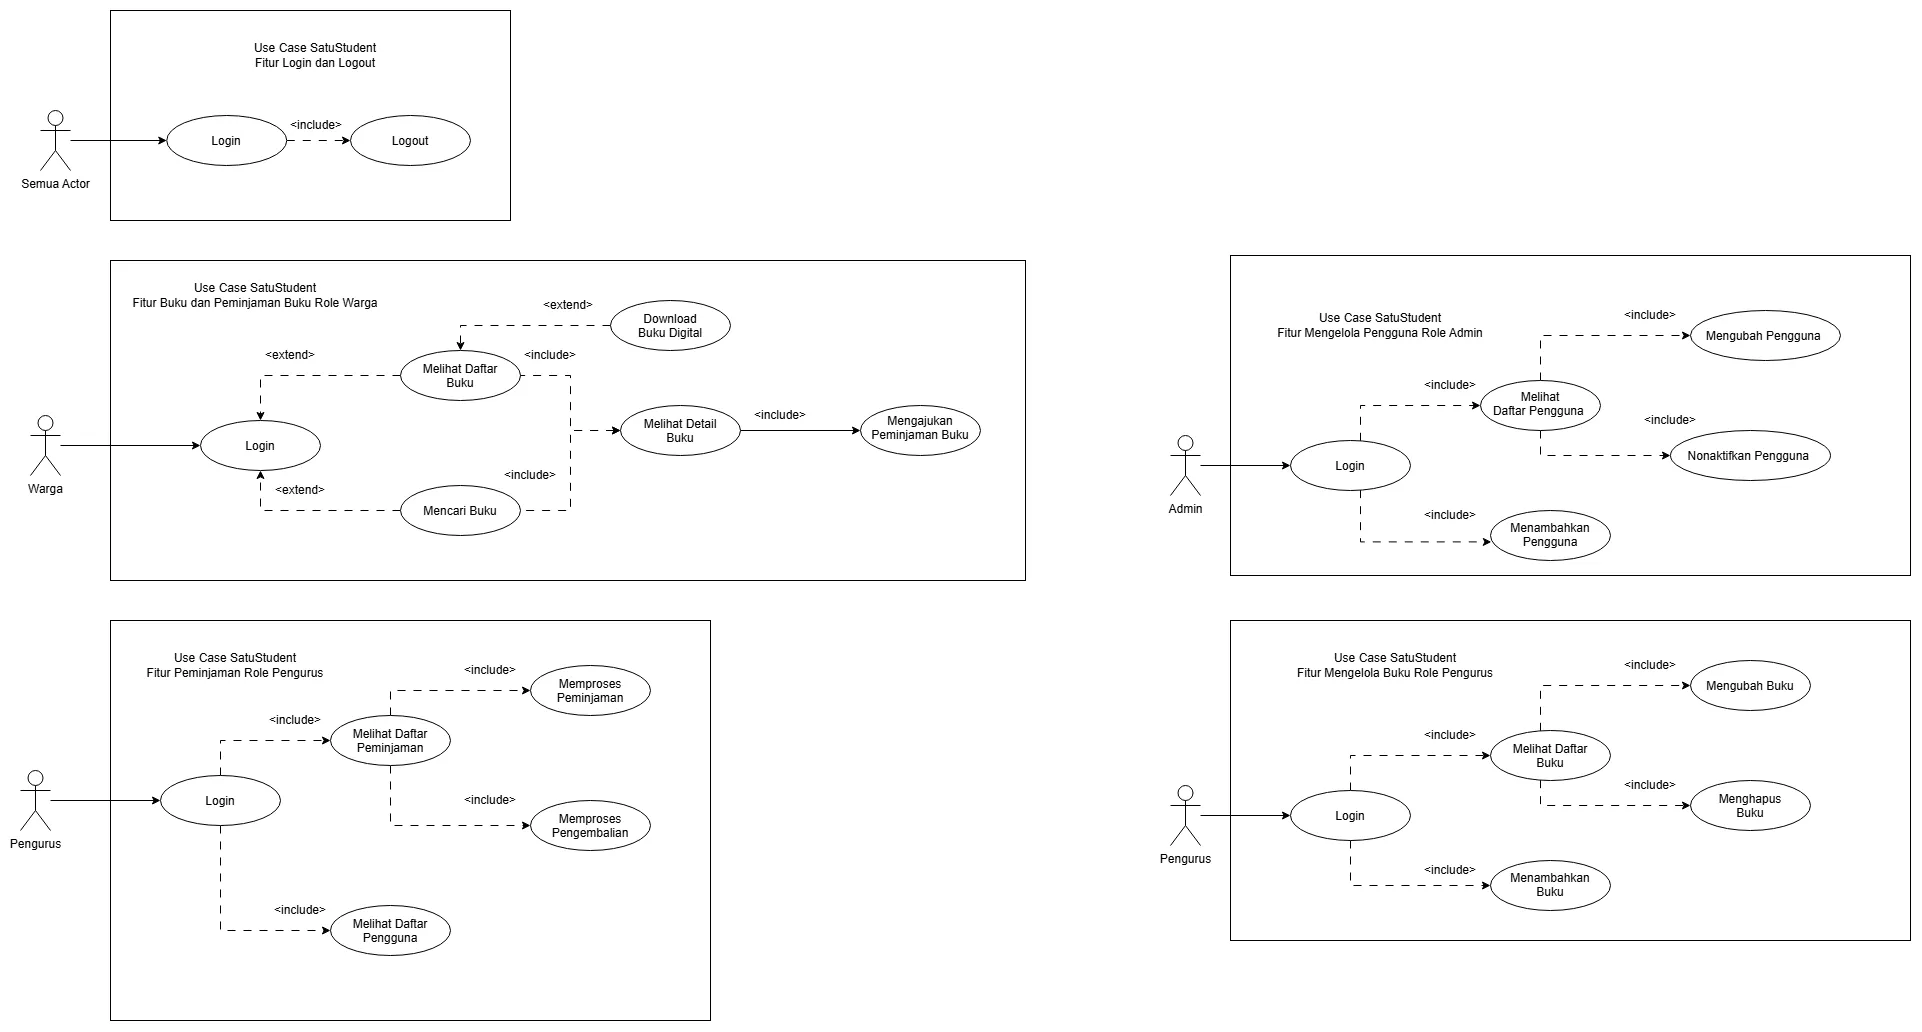
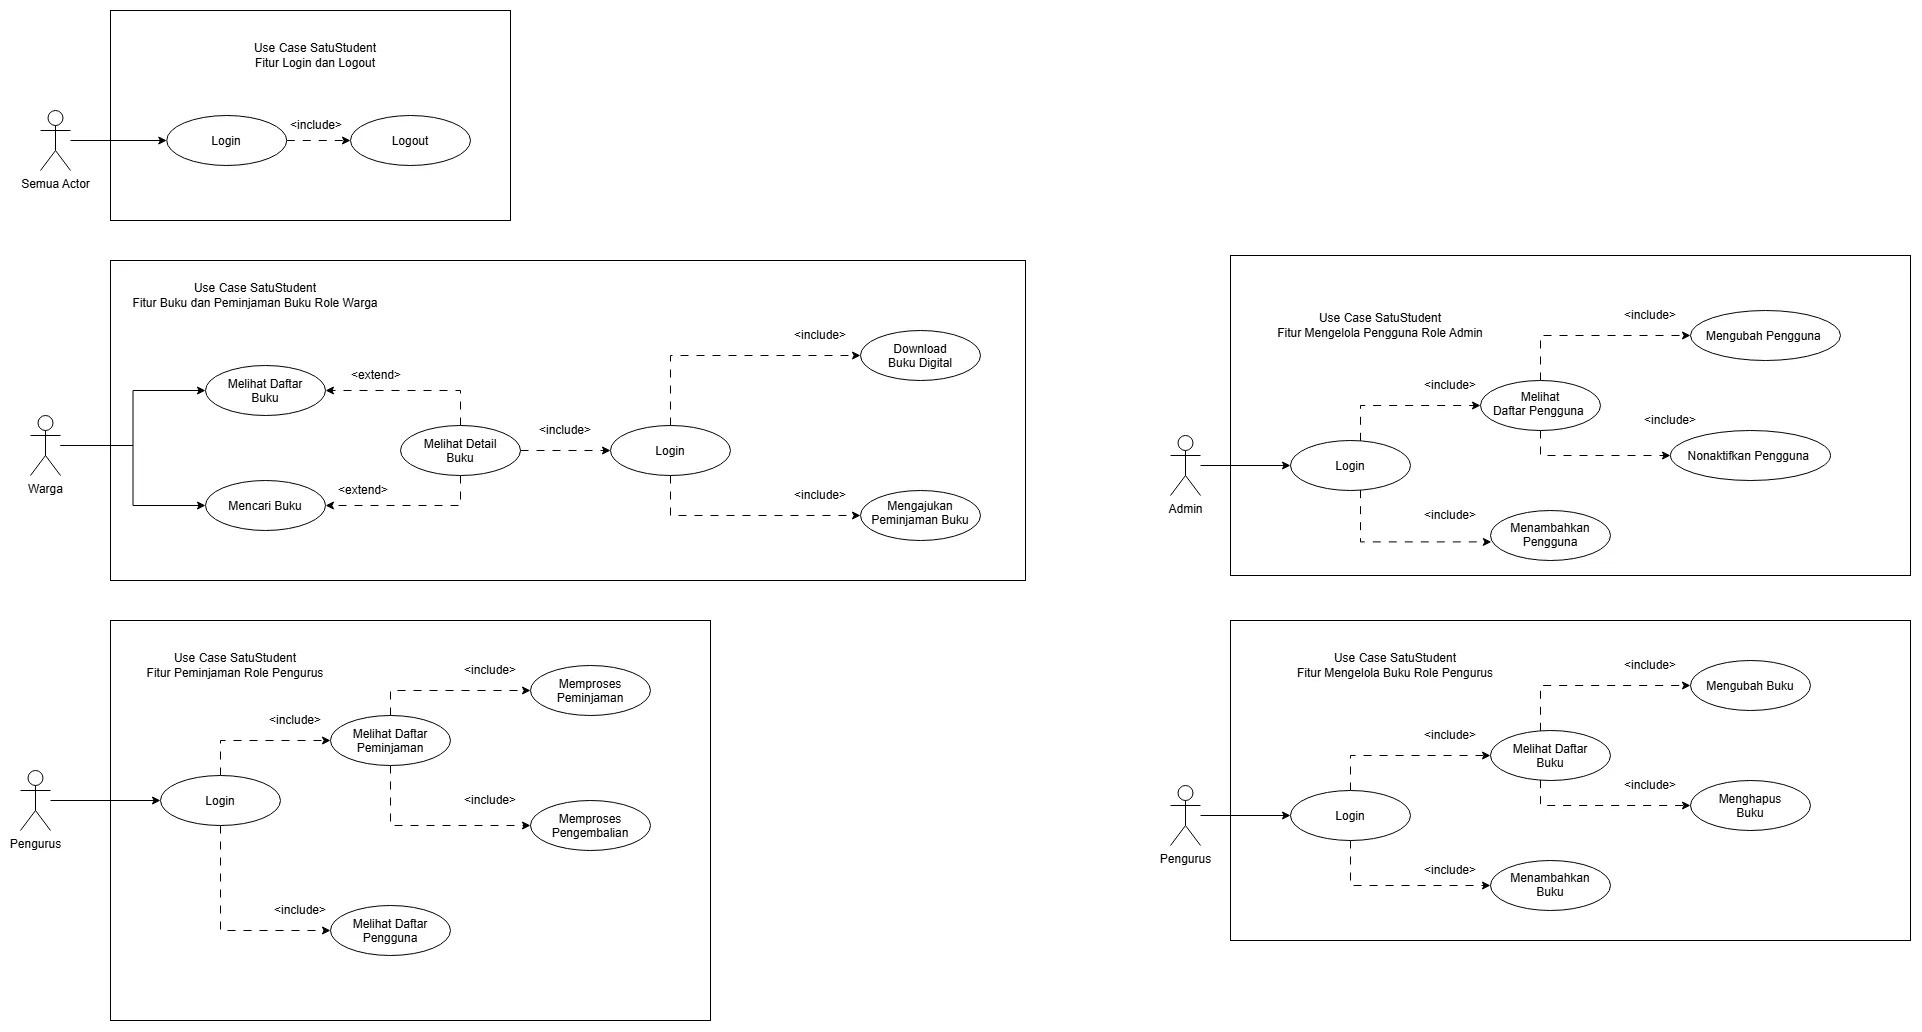
UPDATE : Responsive detail layout and add WEEK 7 docs

diff --git a/VERSION_2/pages/public/detail.html b/VERSION_2/pages/public/detail.html
@@ -91,10 +91,10 @@
     </nav>
 
     <!-- Main Content -->
-    <main class="mt-16">
+    <main class="mt-10 sm:mt-16">
       <!-- Book Detail -->
-      <section class="mx-auto max-w-6xl">
-        <div class="book-detail-grid">
+      <section class="mx-auto max-w-6xl px-6">
+        <div class="grid grid-cols-1 lg:grid-cols-[minmax(0,0.8fr)_minmax(0,1.2fr)] items-start gap-8 md:gap-12 lg:gap-[clamp(2rem,5vw,5rem)]">
           <!-- Book Cover -->
           <div class="book-detail-cover">
             <img
@@ -200,7 +200,7 @@
       <!-- Other Books -->
       <section
         id="buku-lainnya"
-        class="mx-auto max-w-6xl my-20"
+        class="mx-auto max-w-6xl my-20 px-6"
       >
         <div
           class="mb-8 flex flex-col gap-3 sm:flex-row sm:items-end sm:justify-between"
@@ -231,7 +231,6 @@
           </a>
         </div>
 
-        <section id="koleksi" class="mx-auto max-w-7xl">
         <div class="grid grid-cols-1 lg:grid-cols-2 gap-4">
           <article
             class="flex flex-col sm:flex-row items-stretch gap-4 rounded-2xl border border-border bg-[var(--card)] p-3 sm:p-4"
@@ -461,7 +460,6 @@
             </div>
           </article>
         </div>
-      </section>
         </div>
       </section>
     </main>

diff --git a/VERSION_2/styles/detail.css b/VERSION_2/styles/detail.css
@@ -3,17 +3,6 @@
    BOOK DETAIL
 ======================================== */
 
-.detail-nav {
-  width: 100%;
-}
-
-.book-detail-grid {
-  display: grid;
-  grid-template-columns: minmax(0, 0.8fr) minmax(0, 1.2fr);
-  align-items: start;
-  gap: clamp(2rem, 5vw, 5rem);
-}
-
 .book-detail-cover {
   position: relative;
   overflow: hidden;
